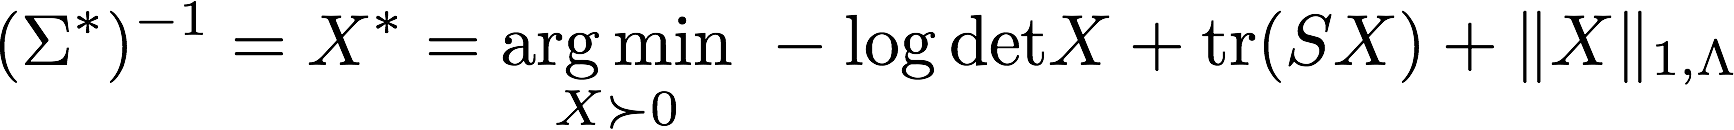
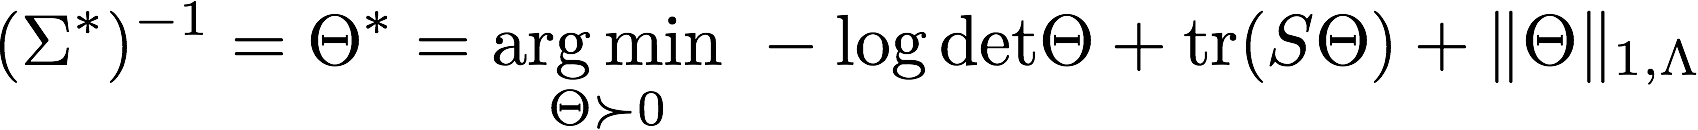
Fix math images

diff --git a/README.md b/README.md
@@ -1,6 +1,6 @@
 # skggm : Gaussian graphical models in scikit-learn
 
-Given **n** independently drawn, **p**-dimensional Gaussian random samples <img src="images/X.png" alt="X" width="80">, the maximum likelihood estimate of the inverse covariance matrix **S** can be computed via the _graphical lasso_, i.e., the program
+Given **n** independently drawn, **p**-dimensional Gaussian random samples <img src="images/S.png" alt="X" width="80">, the maximum likelihood estimate of the inverse covariance matrix <img src="images/Theta.png" alt="\lambda" width="12"> can be computed via the _graphical lasso_, i.e., the program
 
 <img src="images/graphlasso_program.png" alt="\ell_1 penalized inverse covariance estimation" width="500">
 
